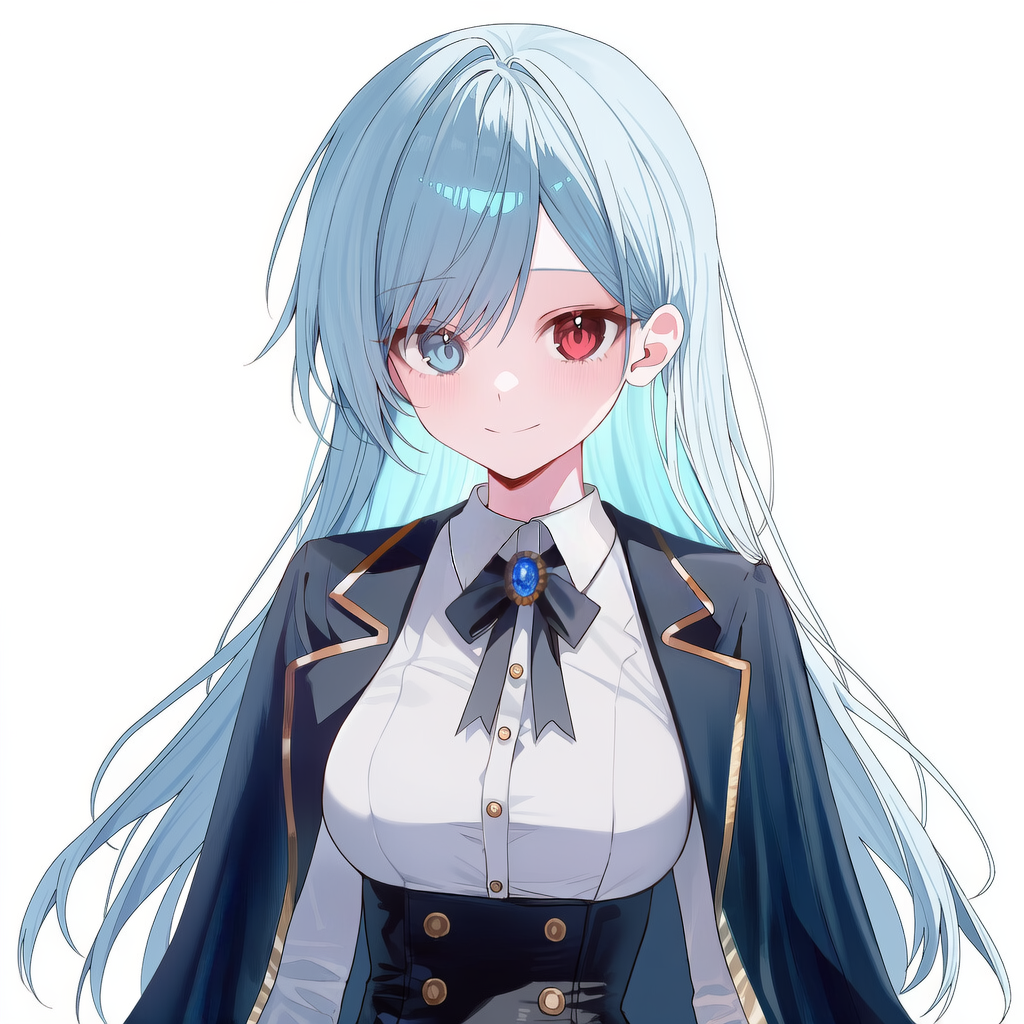
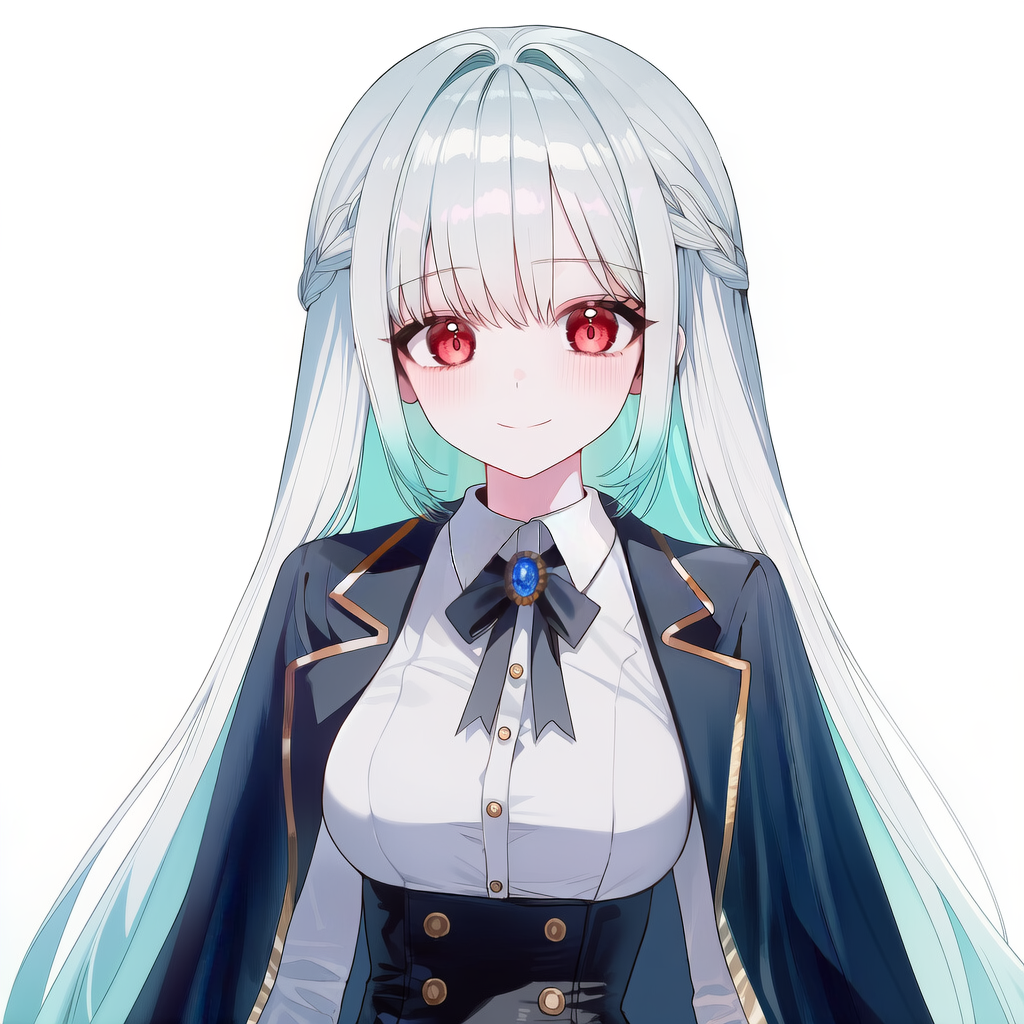
Update Layla (Seradium saint, new image)

Changed region(s): [[0.0, 0.0, 1.0, 1.0]]

diff --git a/content.js b/content.js
@@ -236,7 +236,7 @@ var ROSTER = `
 # 에르바
 학생 | 글로리아 디 마르첼리 | 세라디움 법국 | 귀족 (후작가 영애) | 인간 | 여성 | 21세 | 마법사 | 신성계, 비전계 | 7 | 차분한, 사교적인, 품위 있는 | Erva_Gloria
 학생 | 노아 벨 | 노르테이아 공화국 | 비귀족 (노르테이아 입학 전형) | 인간 | 여성 | 20세 | 마법사 | 암흑계, 자연계 | 5 | 거침없는, 탐구심 강한, 실험적인 | Erva_Noa
-학생 | 레일라 폰 아이젠베르크 | 라그나르 제국 | 귀족 (공작가 영애) | 인간 | 여성 | 22세 | 마법사 | 비전계, 암흑계 | 8 | 도도한, 자신감 넘치는, 완벽주의 | Erva_Layla
+학생 | 레일라 디 아우렐리아 | 세라디움 법국 | 비귀족 (성녀) | 인간 | 여성 | 22세 | 마법사 | 신성계, 생명계 | 8 | 외유내강, 따뜻함, 자애로움 | Erva_Layla
 학생 | 모나 반 하이엔 | 베르셀 왕국 | 귀족 (자작가 영애) | 범고래 수인 | 여성 | 20세 | 마법사 | 자연계, 생명계 | 6 | 야무진, 똑 부러지는, 성실한 | Erva_Mona
 학생 | 스칼렛 드 라발 | 에드레인 왕국 | 귀족 (백작가 영애) | 인간 | 여성 | 21세 | 마법사 | 암흑계, 비전계 | 5 | 대담한, 매혹적인, 스릴을 즐기는 | Erva_Scarlett
 학생 | 에블린 하젤 | 오리디아 성역 | 비귀족 (오리디아 입학 전형) | 인간 | 여성 | 20세 | 마법사 | 비전계, 생명계 | 6 | 수줍은, 조심스러운, 섬세한 | Erva_Evelyn
